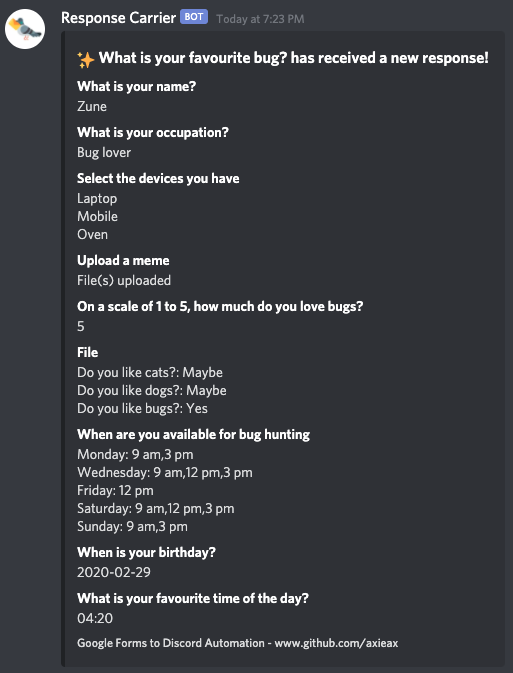
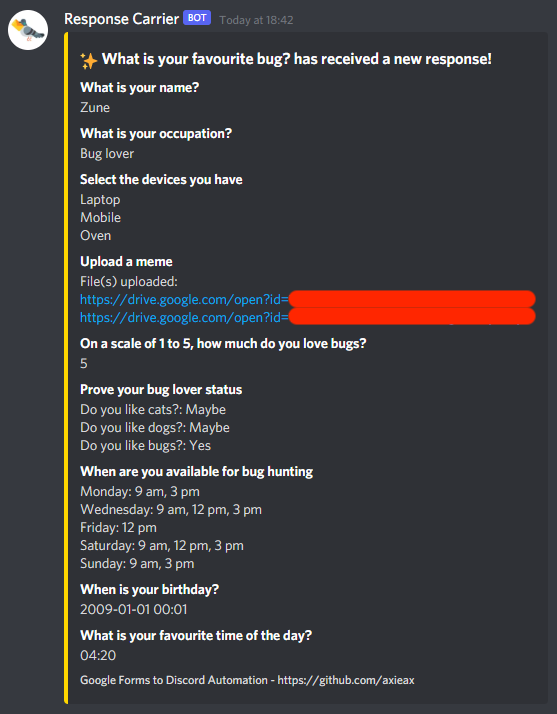
improved code efficiency, added option to hide empty rows for grids, bug fixes for multiple grid responses in a row

Changed region(s): [[0.0, 0.0, 0.9669, 0.9985], [0.5614, 0.0, 0.5926, 0.0312]]

diff --git a/script.js b/script.js
@@ -1,47 +1,55 @@
-///////////
-// SETUP //
-///////////
+///////////////////////////////////////////////////////
+//           Google Form to Discord Webhook          //
+// https://github.com/axieax/google-forms-to-discord //
+///////////////////////////////////////////////////////
+
+/*
+  SETUP OPTIONS
+*/
 
 // [TODO]: Paste your Discord Webhook URL in the quotation marks below (don't remove the quotation marks)
 const webhookURL = '';
 // [OPTIONAL]: If you want your responses to be hidden in the notification, change false to true below
 const hideResponses = false;
+// [OPTIONAL]: If you want to show incomplete rows for grids and checkbox grids, change true to false below
+const hideEmptyRows = true;
+// Further setup instructions can be found at https://github.com/axieax/google-forms-to-discord/
 
-// Setup instructions: https://github.com/axieax/google-forms-to-discord/
 
-
-/////////////////////////
-// DO NOT MODIFY BELOW //
-/////////////////////////
+/*
+  DO NOT MODIFY BELOW
+*/
 
 // Discord embed limits
 const maxTextLength = 1024;
 const maxFields = 25;
 
-// Called Function
+// function called on form submit
 const submitPost = (e) => {
-  // retrieve and unpack data
-  const responses = e.response.getItemResponses();
-
-  // extract responses
-  const payload = extractResponses(responses);
-  // ignore empty responses
-  if (!payload.length) return;
-
   // prepare POST request to webhook
   const formTitle = e.source.getTitle() ?? 'Untitled Form';
   const embed = {
-    'title': '✨ ' + formTitle + ' has received a new response!',
+    'title': `✨ ${formTitle} has received a new response!`,
     'footer': {
       'text': 'Google Forms to Discord Automation - https://github.com/axieax',
     },
     'color': 16766720,
   }
-  // include responses in payload unless specified otherwise
-  if (!hideResponses) embed.fields = payload;
+  
+  // retrieve and unpack data
+  const responses = e.response.getItemResponses();
+  // format responses if responses are not to be hidden in the webhook
+  if (!hideResponses) {
+    // extract responses
+    const payload = extractResponses(responses);
+    // ignore empty responses
+    if (!payload.length) return;
+    // include responses in payload
+    embed.fields = payload;
+  }
 
   // create POST request to webhook
-  let options = {
+  const options = {
     'method': 'POST',
     'headers': {
       'Content-Type': 'application/json',
@@ -53,49 +61,52 @@ const submitPost = (e) => {
     }),
   };
   UrlFetchApp.fetch(webhookURL, options);
-}
+};
 
 
-// Extract Responses
+// extract responses
 const extractResponses = (responses) => {
-  let payload = [];
+  // format each response
+  const payload = [];
   responses.forEach(response => {
     const item = response.getItem();
     let resp = response.getResponse();
-    let respFmt;
+    let respFmt, questions;
     switch (item.getType()) {
       case FormApp.ItemType.CHECKBOX:
-        // Checkbox
+        // display checkbox responses on separate lines
         resp = resp.join('\n');
         break;
       case FormApp.ItemType.FILE_UPLOAD:
-        // File upload
+        // generate URL for uploaded files
         resp = 'File(s) uploaded:\n' + resp.map(
           fileID => 'https://drive.google.com/open?id=' + fileID
         ).join('\n');
         break;
       case FormApp.ItemType.GRID:
-        // Multiple choice grid
-        respFmt = [];
-        rows = item.asGridItem().getRows();
-        for (i = 0; i < resp.length; i++) {
-          // skip empty rows?
-          respFmt.push(rows[i] + ': ' + resp[i])
-        }
+        // display grid responses on separate lines
+        respFmt = []
+        questions = item.asGridItem().getRows();
+        resp.forEach((answer, index) => {
+          // exclude empty responses unless specified otherwise
+          if (!hideEmptyRows || answer !== null)
+            respFmt.push(`${questions[index]}: ${Array.isArray(answer) ? answer.join(', ') : answer}`);
+        });
         resp = respFmt.join('\n');
         break;
       case FormApp.ItemType.CHECKBOX_GRID:
-        // Tick box grid
-        respFmt = [];
-        rows = item.asCheckboxGridItem().getRows();
-        for (i = 0; i < resp.length; i++) {
-          // skip empty rows?
-          respFmt.push(rows[i] + ': ' + resp[i])
-        }
+        // display grid responses on separate lines
+        respFmt = []
+        questions = item.asCheckboxGridItem().getRows();
+        resp.forEach((answer, index) => {
+          // exclude empty responses unless specified otherwise
+          if (!hideEmptyRows || answer !== null)
+            respFmt.push(`${questions[index]}: ${Array.isArray(answer) ? answer.join(', ') : answer}`);
+        });
         resp = respFmt.join('\n');
         break;
       default:
-        // Short answer, paragraph, multiple choice, linear scale, date, time
+        // short answer, paragraph, multiple choice, linear scale, datetime
         break;
     }
 
@@ -106,8 +117,10 @@ const extractResponses = (responses) => {
       'inline': false,
     });
   });
+
+  // TODO: maxFields
   return payload;
-}
+};
 
 
 /* Future Features:
@@ -119,5 +132,5 @@ Embed Limits (https://discord.com/developers/docs/resources/channel#embed-limits
       - https://developers.google.com/apps-script/reference/forms/form-response#toprefilledurl
 Regex?
 Date format
-Fix ellipsis
+Extend ellipsis
 */

diff --git a/README.md b/README.md
@@ -21,7 +21,7 @@ Assumed: you have created a Discord account, joined a Discord server with the "M
 
 ## Link the Google Form to the Discord Webhook
 
-1. In the script editor, paste the Webhook URL between the '' symbols on the Line 6. You can optionally choose to hide responses in your notification by changing **false** to **true** on Line 8.
+1. In the script editor, paste the Webhook URL between the '' symbols on the Line 6. You can optionally choose to hide responses in your notification by changing **false** to **true** on Line 13.
 2. Click Save.
 3. Navigate to Edit \> Current Project's Triggers and select Add Trigger.
 4. Change the event type to "On form submit" and click Save.
